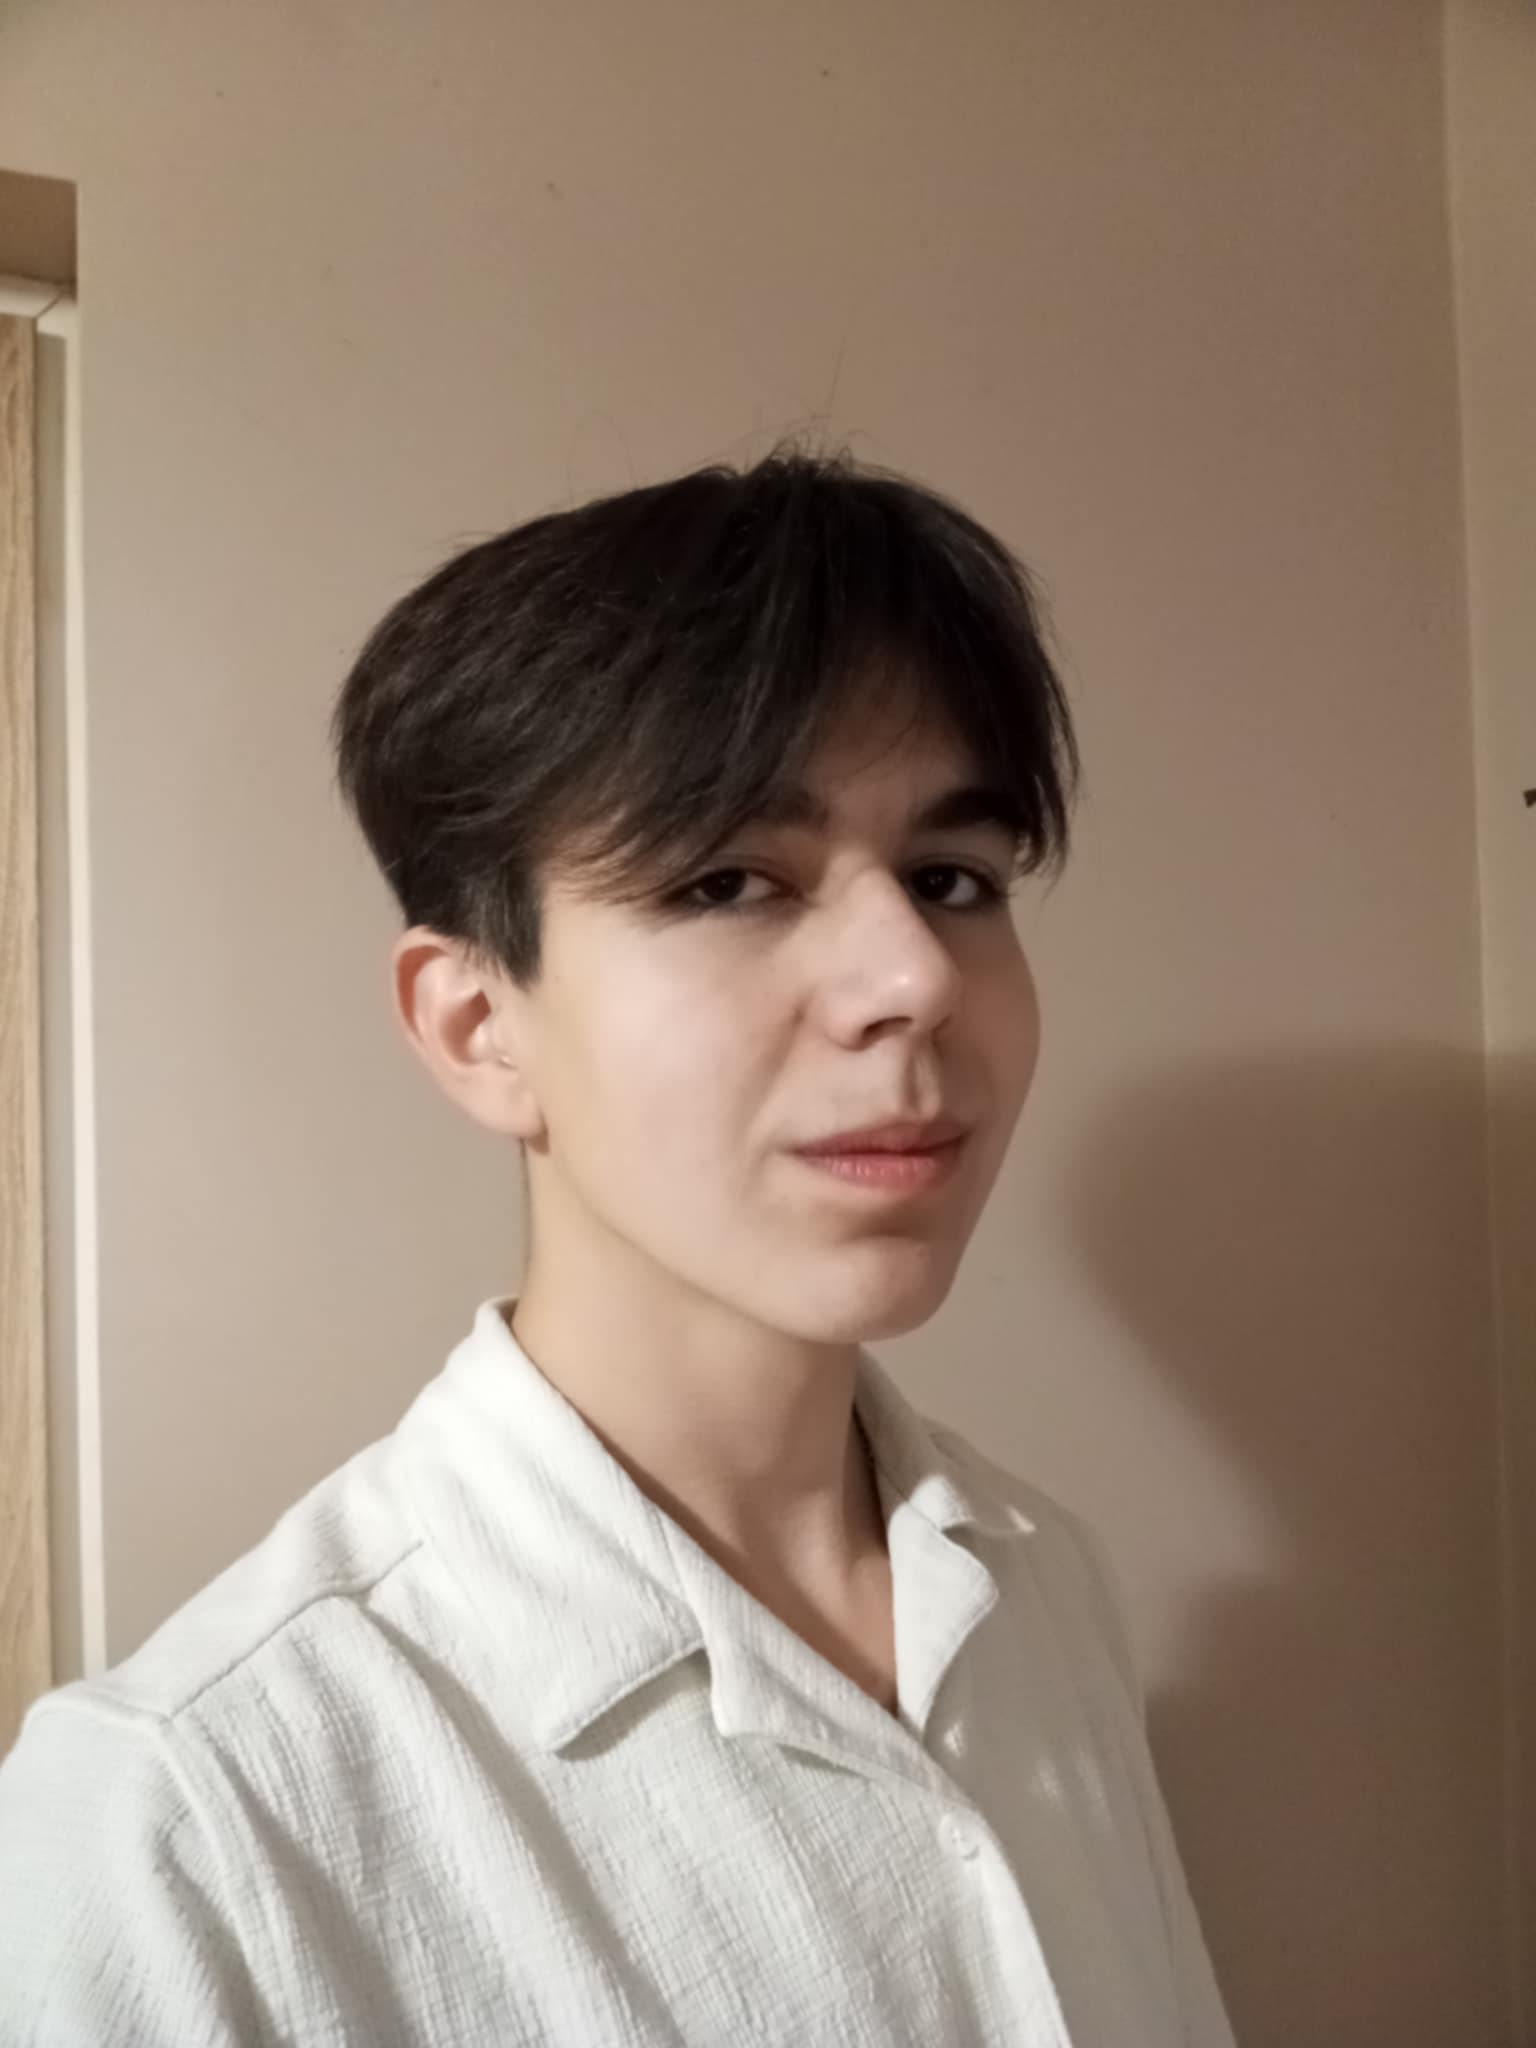
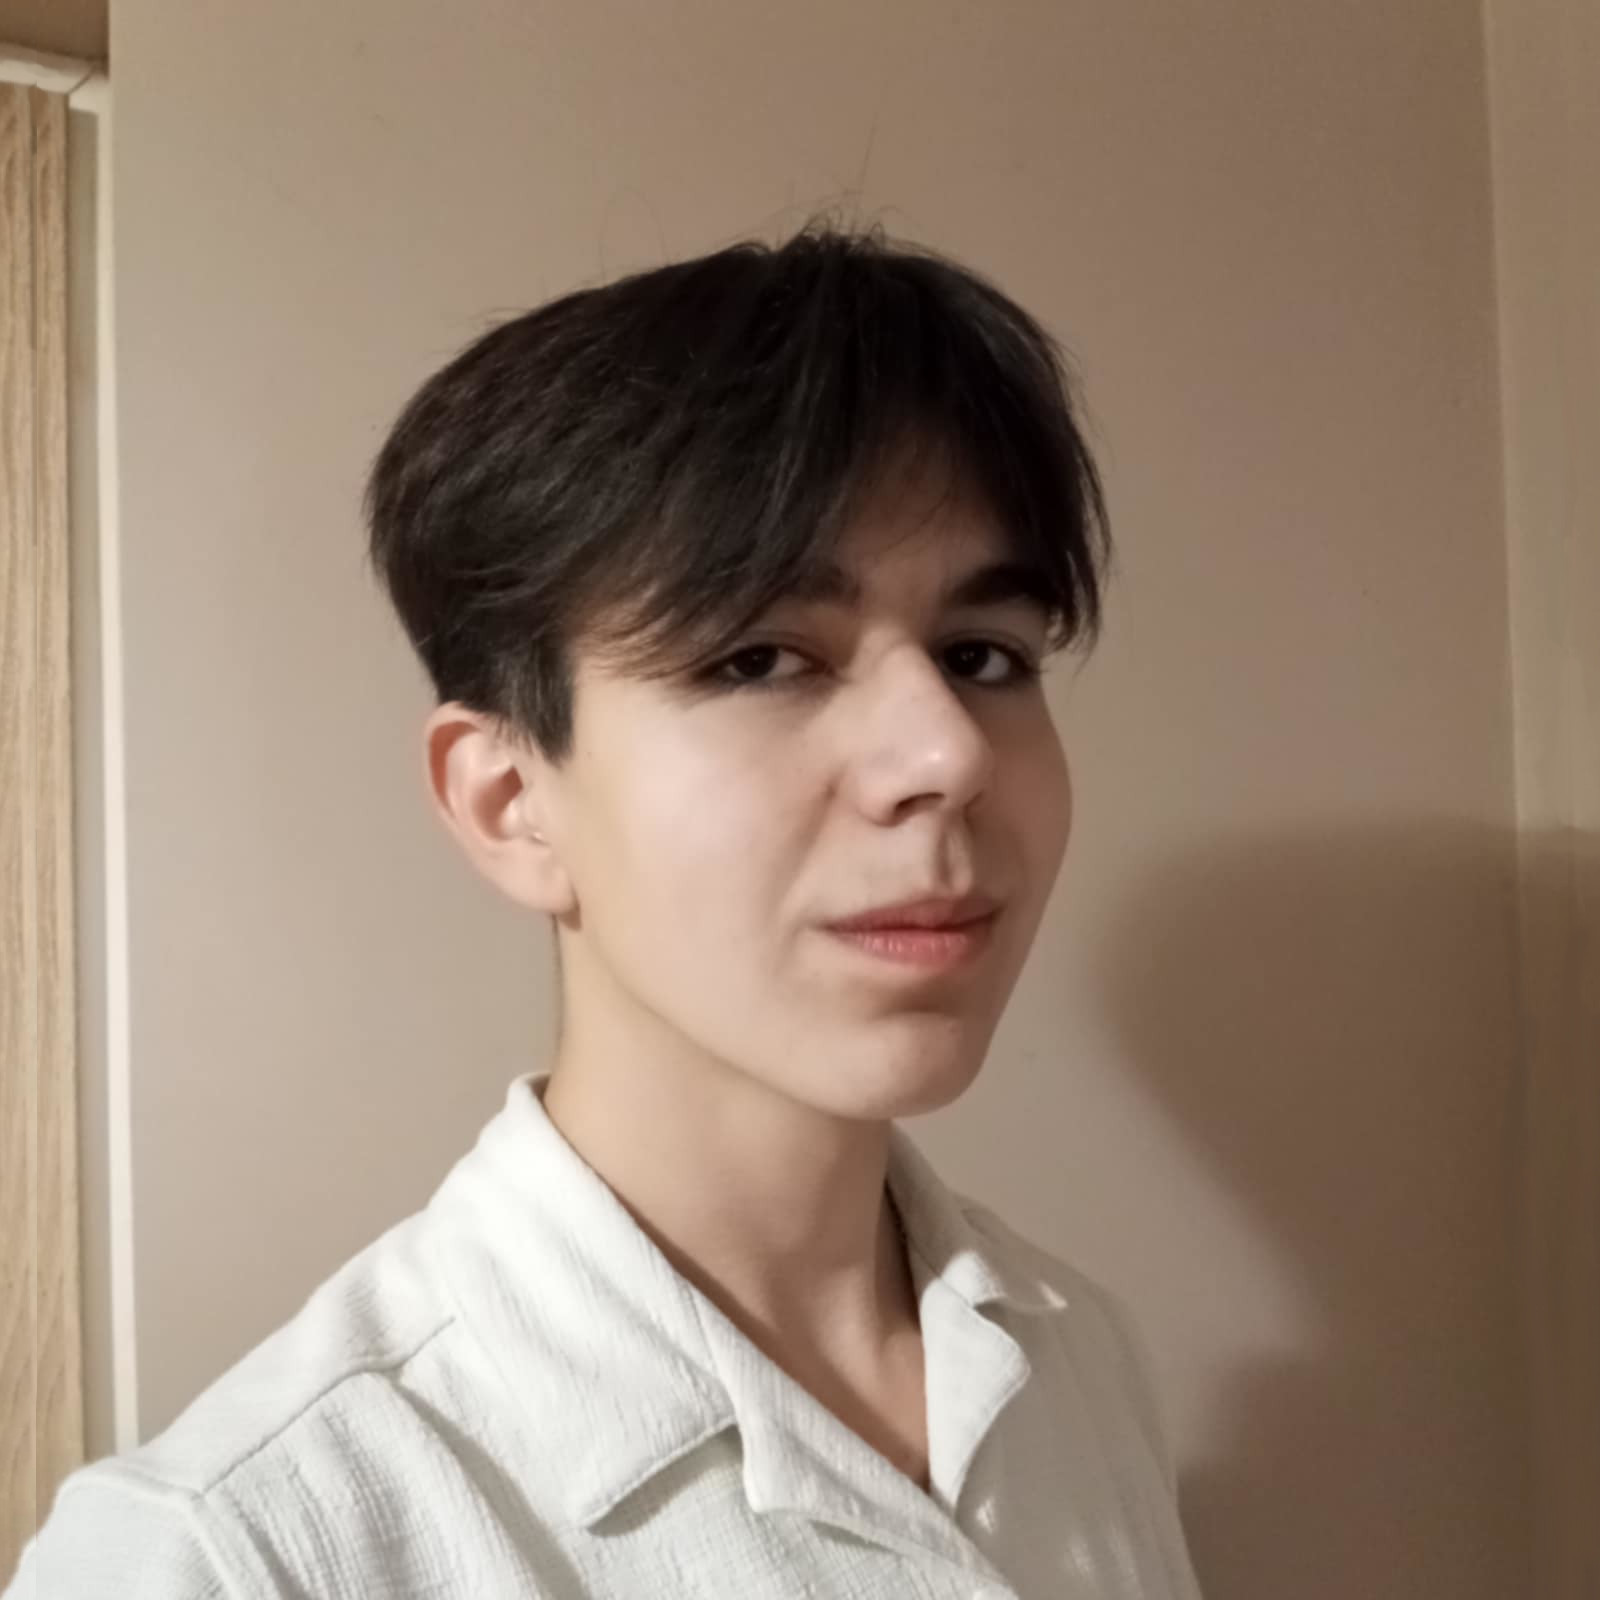
mobile version

diff --git a/styles/style-ikarus.css b/styles/style-ikarus.css
@@ -51,6 +51,11 @@ body {
 }
 #logo {
     max-width: 325px;
+    border: 2px solid transparent;
+}
+#logo:hover {
+    box-shadow: inset 0px 0px 15px 5px #e00, 0px 0px 15px 5px #e00;
+    border: 2px solid #e00;
 }
 #antylogo {
     flex: 1 0 1px;
@@ -66,7 +71,7 @@ body {
 img {
     width: 500px;
     border-radius: 15px;
-    border: 2px solid #0af;
+    border: 3px solid #0af;
 }
 a {
     color:#0af;
@@ -80,7 +85,7 @@ a:hover {
 a img:hover{
     box-shadow: 0px 0px 25px 10px #e00;
     transition: 0.2718s;
-    border: 2px solid #e00;
+    border: 3px solid #e00;
 }
 h2 {
     text-align: center;
@@ -113,9 +118,9 @@ p {
 /* O zespole */
 .about-parent {
     display: flex;
-    flex-wrap: nowrap;
+    flex-wrap: wrap;
     gap: 5px;
-    height: 500px;
+    width: 100%;
 }
 .about-text {
     flex: 0 1 100%;
@@ -125,7 +130,9 @@ p {
 }
 .about-img {
     object-fit: cover;
-    height: 100%;
+    width: 80%;
+    margin-left: 10%;
+    margin-right: 10%;
     border-radius: 360px;
 }
 /* Sociale */
@@ -135,19 +142,19 @@ p {
     gap: 30px;
 }
 .social-child {
-    flex: 0 1 325px;
+    flex: 1 1 100%;
     border-radius: 10px;
     background-image: linear-gradient(to left,#040f53, #15455b);
-    border: 2px solid #0af;
+    border: 3px solid #0af;
     background: linear-gradient(#0000, rgb(0 0 0/40%)) top/100% 800%;
     transition: 0.314s;
-    height: 65px;
+    height: 75px;
     color: #fff;
     display: flex;
     align-items: center;
 }
 .social-child:hover {
-    border: 2px solid #e00;
+    border: 3px solid #e00;
     box-shadow: 0px 0px 25px 10px #e00;
     background-position: bottom;
     color: #fff;
@@ -157,8 +164,8 @@ p {
     max-height: 90%;
     width: auto;
     float: left;
-    margin-left: 5px;
-    margin-right: 5px;
+    margin-left: 10px;
+    margin-right: 10px;
     border: none;
     box-shadow: none;
 }
@@ -166,8 +173,9 @@ p {
     box-shadow: none;
     border: none;
 }
-.social-ghostdiv {
-    flex: 4 0 20px;
+#email {
+    margin: 0px;
+    font-size: 30px;
 }
 /* Media */
 @media only screen and (min-width: 1000px){
@@ -192,11 +200,11 @@ p {
     }
     #logo {
         max-width: 300px;
-        border: 2px solid transparent;
+        border: 3px solid transparent;
     }
     #logo:hover {
         box-shadow: inset 0px 0px 15px 5px #e00, 0px 0px 15px 5px #e00;
-        border: 2px solid #e00;
+        border: 3px solid #e00;
     }
     #antylogo {
         display: initial;
@@ -210,7 +218,27 @@ p {
     .tekstWTabeli {
         flex: 1 1 30%;
     }
+    .about-parent {
+        display: flex;
+        flex-wrap: nowrap;
+        gap: 5px;
+        height: 500px;
+    }
+    .about-text {
+        flex: 0 1 100%;
+    }
+    .about-img-div {
+        flex: 1 3 100%;
+    }
+    .about-img {
+        object-fit: contain;
+        width: 100%;
+        max-height: 500px;
+        max-width: 500px;
+        border-radius: 360px;
+    }
     .social-child {
-        font-size: 22px;
+        font-size: 30px;
+        flex: 1 1 350px;
     }
 }

diff --git a/index.html b/index.html
@@ -116,7 +116,7 @@
                 </p>
             </div>
             <div class="about-img-div">
-                <img class="about-img" src="img/macius.png">
+                <img class="about-img" src="img/macius2.jpg">
             </div>
         </div>
         <br>
@@ -170,7 +170,7 @@
                 </p>
             </div>
             <div class="about-img-div">
-                <img class="about-img" src="img/dawidek.jpg" style="object-position: 50% 50%;">
+                <img class="about-img" src="img/dawidek.jpg">
             </div>
         </div>
         <br>
@@ -250,39 +250,42 @@
         <h2 id="link-contact" class="targetLink">Gdzie nas spotkać?</h2>
         <br>
         <div class="social-parent">
-            <a class="social-child" href="index.html">
-                <img class="social-img" src="img/internet.jpg">
-                Strona internetowa
-            </a>
-            <div class="social-ghostdiv"></div>
+            <button class="social-child" id="przyciskEmail">
+                <img class="social-img" src="img/mail.jpg">
+                <p id="email">E-mail</p>
+            </button>
             <a class="social-child" href="https://www.tiktok.com/@projekt_ikarus0">
                 <img class="social-img" src="img/tiktok.avif">
                 TikTok
             </a>
-            <div class="social-ghostdiv"></div>
             <a class="social-child" href="https://www.instagram.com/projekt.ikarus/">
                 <img class="social-img" src="img/instagram.png">
                 Instagram
             </a>
-            <div class="social-ghostdiv"></div>
             <a class="social-child" href="https://www.facebook.com/profile.php?id=61566994124528&is_tour_dismissed">
                 <img class="social-img" src="img/facebook.png">
                 Facebook
             </a>
-            <div class="social-ghostdiv"></div>
             <a class="social-child" href="https://github.com/ctr-alt-f3">
                 <img class="social-img" src="img/github.png">
                 GitHub
             </a>
-            <div class="social-ghostdiv"></div>
             <a class="social-child" href="links.html">
                 <img class="social-img" src="img/links.png">
                 Zbiór linków
             </a>
-            <div class="social-ghostdiv"></div>
         </div>
         <br><br>
     </div>
+    
+    <script>
+        const adresEmail = document.getElementById("email")
+        const przyciskEmail = document.getElementById("przyciskEmail")
+        przyciskEmail.addEventListener("click", function(){
+            adresEmail.textContent = "Projekt-Ikarus@protonmail.com"
+        })
+    </script>
+
 </body>
 
 </html>

diff --git a/links.html b/links.html
@@ -29,7 +29,7 @@
 </head>
 
 <body>
-    <a id="pasek" href="#">
+    <a id="pasek" href="index.html">
         <div id="logoDiv"><img id="logo" src="img/logo-ikarus-alfa.png"></div>
         <div id="mainTitle">
             <h1 id="h1">PROJEKT IKARUS</h1>
@@ -59,12 +59,20 @@
                 <img class="social-img" src="img/github.png">
                 GitHub
             </a>
-            <a class="social-child" href="/links.html">
-                <img class="social-img" src="img/links.png">
-                Zbiór linków
-            </a>
+            <button class="social-child" id="przyciskEmail">
+                <img class="social-img" src="img/mail.jpg">
+                <p id="email">E-mail</p>
+            </button>
         </div>
     </div>
+
+    <script>
+        const adresEmail = document.getElementById("email")
+        const przyciskEmail = document.getElementById("przyciskEmail")
+        przyciskEmail.addEventListener("click", function(){
+            adresEmail.textContent = "Projekt-Ikarus@protonmail.com"
+        })
+    </script>
 
 </body>
 
